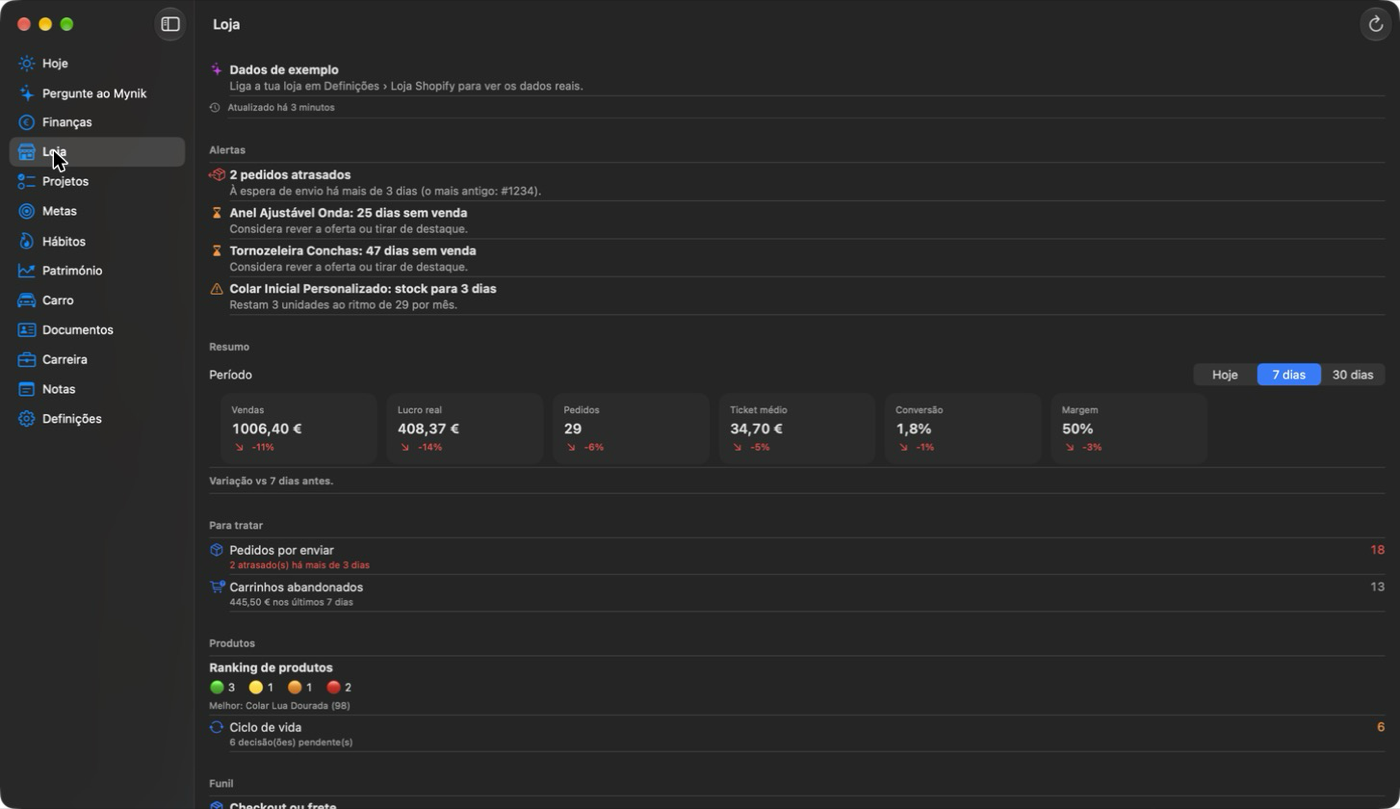
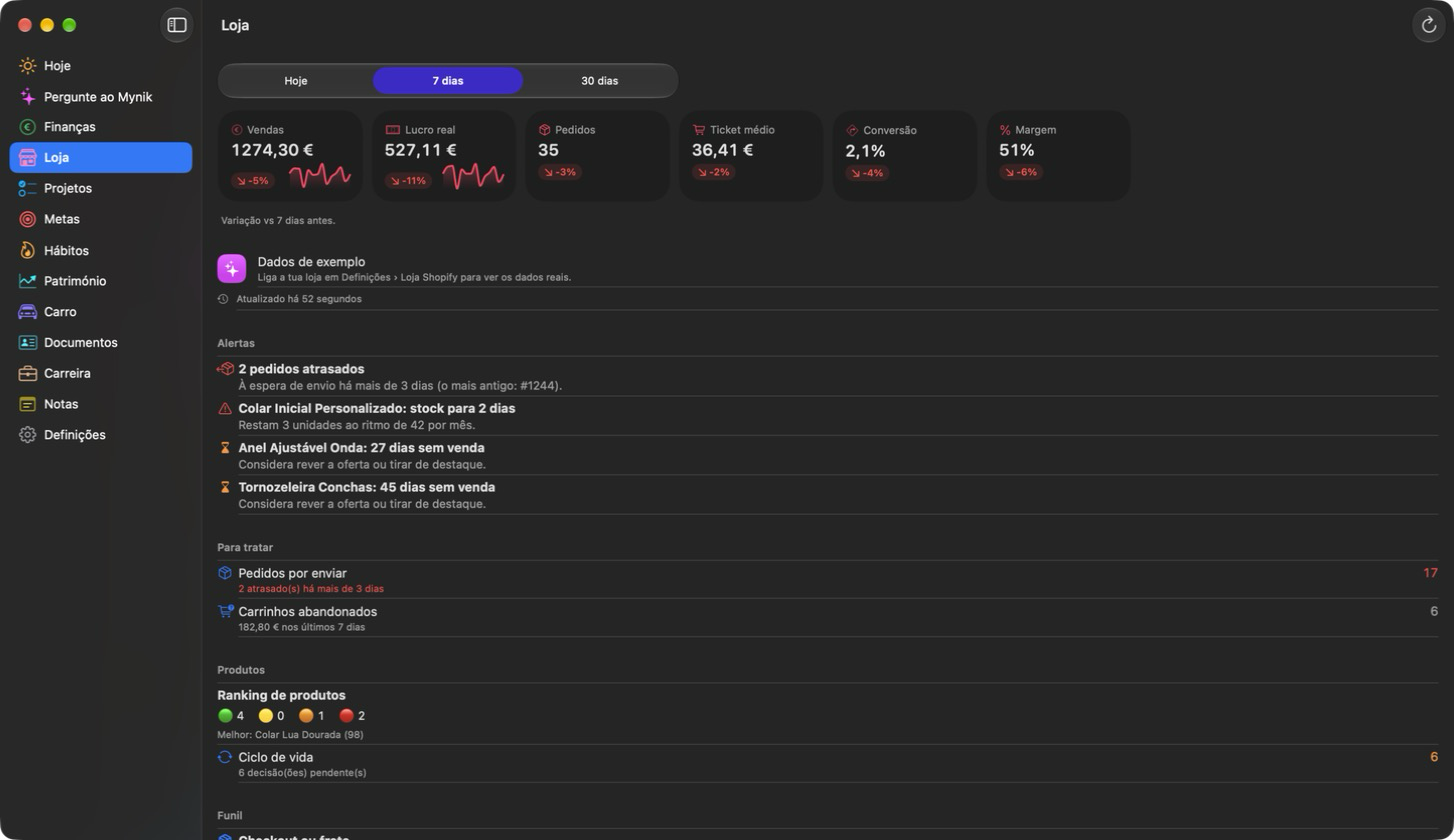
docs: screenshots e README do redesign visual (v1.1)

diff --git a/README.md b/README.md
@@ -1,16 +1,18 @@
+<p align="center"><img src="docs/screenshots/app-icon.png" width="128" alt="Ícone do Mynik"></p>
+
 # Mynik
 
 > *A tua vida, num só lugar.*
 
 **Dashboard pessoal nativa para iPhone e Mac**: finanças, contas a pagar, analytics da loja Shopify, projetos, notas, hábitos, carro, documentos, carreira e património numa só app SwiftUI, com IA no dispositivo e sem servidores.
 
-![Swift](https://img.shields.io/badge/Swift-6-F05138) ![SwiftUI](https://img.shields.io/badge/SwiftUI-iOS%2026%20%7C%20macOS%2026-blue) ![SwiftData](https://img.shields.io/badge/SwiftData-local-green) ![Foundation Models](https://img.shields.io/badge/IA-on--device-purple) ![Tests](https://img.shields.io/badge/testes-223-brightgreen)
+![Swift](https://img.shields.io/badge/Swift-6-F05138) ![SwiftUI](https://img.shields.io/badge/SwiftUI-iOS%2026%20%7C%20macOS%2026-blue) ![SwiftData](https://img.shields.io/badge/SwiftData-local-green) ![Foundation Models](https://img.shields.io/badge/IA-on--device-purple) ![Tests](https://img.shields.io/badge/testes-225-brightgreen)
 
 <p align="center">
   <img src="docs/screenshots/iphone-hoje.png" width="200" alt="Tela Hoje no iPhone">
-  <img src="docs/screenshots/iphone-pergunte-ia.png" width="200" alt="Pergunte ao Mynik com Apple Intelligence">
-  <img src="docs/screenshots/iphone-loja.png" width="200" alt="Loja Shopify com ranking e gráfico">
-  <img src="docs/screenshots/iphone-habitos.png" width="200" alt="Hábitos com sequência">
+  <img src="docs/screenshots/iphone-financas.png" width="200" alt="Finanças com saldo do mês e atalhos">
+  <img src="docs/screenshots/iphone-loja.png" width="200" alt="Loja Shopify com KPIs e tendências">
+  <img src="docs/screenshots/iphone-patrimonio-escuro.png" width="200" alt="Património em modo escuro">
 </p>
 
 <p align="center">
@@ -25,7 +27,8 @@
 - 🛍 **Shopify Analytics**: lucro real (sem IVA, custos, envios, taxas e anúncios), ranking de produtos 0–100 com ação sugerida e diagnóstico do funil.
 - 🔥 **Hábitos, revisão semanal ao domingo**, projetos em Kanban, notas estilo Notion com Markdown, carro, documentos com Face ID, carreira e património.
 - 🧩 Widgets, Siri/Atalhos, barra de menus no Mac, Calendário e Lembretes na tela Hoje.
-- ♿ Liquid Glass, modo escuro, Dynamic Type, VoiceOver e Reduzir movimento.
+- 🎨 **Sistema visual próprio** (`Core/DesignSystem`): cor da marca, uma cor por módulo, números arredondados, cartões de KPI com mini gráficos e um ícone gerado com CoreGraphics ([scripts/make-icon.swift](scripts/make-icon.swift)).
+- ♿ Liquid Glass nos controlos, modo escuro, Dynamic Type, VoiceOver, contraste AA e Reduzir movimento.
 
 <details>
 <summary><b>Mais screenshots</b></summary>
@@ -36,6 +39,10 @@
 | Fatura digitalizada → gasto | Conta de hoje na Dynamic Island | Modo escuro |
 | <img src="docs/screenshots/iphone-financas.png" width="220" alt="Finanças"> | <img src="docs/screenshots/iphone-pergunte-sem-ia.png" width="220" alt="Pergunte ao Mynik sem IA"> | <img src="docs/screenshots/mac-pergunte.png" width="220" alt="Pergunte ao Mynik no Mac"> |
 | Finanças | Modo sem IA (resumos) | Chat no Mac |
+| <img src="docs/screenshots/iphone-carro.png" width="220" alt="Carro com KPIs e consumo"> | <img src="docs/screenshots/iphone-pergunte-ia.png" width="220" alt="Pergunte ao Mynik com Apple Intelligence"> | <img src="docs/screenshots/iphone-habitos.png" width="220" alt="Hábitos com sequência"> |
+| Carro | Pergunte ao Mynik | Hábitos |
+
+<img src="docs/screenshots/mac-financas.png" width="820" alt="Finanças no Mac">
 
 <img src="docs/screenshots/mac-loja.png" width="820" alt="Loja no Mac">
 </details>
@@ -67,7 +74,7 @@ MynikTests/       Swift Testing, com a app como anfitrião e base de dados em me
 - **APIs grátis e sem chaves**: câmbio do BCE ([Frankfurter](https://frankfurter.dev)), preços de combustível do Ministerio para la Transición Ecológica, cotações do Yahoo Finance. A Shopify usa só *scopes* de leitura e o token fica no **Keychain**, nunca no código.
 - **Privacidade**: Face ID opcional para abrir a app, números e fotos dos documentos atrás de autenticação própria (e fora da busca global), nenhum dado sai do dispositivo.
 
-## Estado — v1.0
+## Estado — v1.1
 ✅ **Fase 1 (MVP) concluída**: projeto multiplataforma, modelos SwiftData, navegação adaptativa (barra lateral no Mac/iPad, separadores no iPhone), Finanças (lista, adicionar e editar gastos/receitas) e tela Hoje (saldo do mês, últimos gastos, contas a vencer).
 
 ✅ **Fase 2 (Finanças completas) concluída**: contas a pagar com recorrência e botão "paguei", notificações de vencimento, orçamento mensal por categoria, relatórios com Swift Charts, assinaturas (total mensal/anual), importação de extratos CSV (com deteção de duplicados; exemplo em [docs/exemplo-extrato.csv](docs/exemplo-extrato.csv)) e multi-moeda EUR/BRL com taxa do BCE.
@@ -83,6 +90,8 @@ MynikTests/       Swift Testing, com a app como anfitrião e base de dados em me
 ✅ **Fase 7 (IA e extras) concluída**: **categorização automática** dos movimentos com a Apple Intelligence (Foundation Models no dispositivo, só entre as categorias existentes) e, sem ela, pelo histórico e por comerciantes conhecidos; **"Pergunte ao Mynik"**, um chat sobre finanças, contas, loja, carro, documentos, carreira, metas e património com *tool calling* que lê o SwiftData (e modo sem IA com resumos por tema); **scanner de faturas** (câmara de documentos do VisionKit ou foto/ficheiro, OCR do Vision que extrai comerciante, total e data); **Live Activity e Dynamic Island** da conta que vence hoje (atualizações locais); **revisão semanal** ao domingo, **hábitos** com sequência e objetivo semanal e **busca global ⌘K**.
 
 ✅ **Fase 8 (Polimento e lançamento) concluída — v1.0**: Liquid Glass (botões de vidro, barra de separadores que encolhe), cor de destaque com variantes para modo escuro e alto contraste, Dynamic Type com layouts verticais nos tamanhos de acessibilidade, Reduzir movimento, rótulos únicos para VoiceOver e Controlo por Voz; **Face ID opcional** para abrir a app; cópia de segurança completa com os hábitos; **223 testes** com Swift Testing; screenshots reais e este README. O TestFlight ficou de fora por exigir o plano pago (ver [Instalar](#instalar)).
+
+✅ **v1.1 — Redesign visual**: design system em `Core/DesignSystem` (tokens de espaçamento e raio, cor da marca violeta com variantes, cor de destaque por módulo, tipografia dos números com `.rounded` e algarismos fixos, cartões, KPIs com variação e mini gráficos em Swift Charts, estados vazios); tela **Hoje** em painel de cartões com o saldo sobre o gradiente da marca, ações rápidas em Liquid Glass e duas colunas no Mac; **Finanças** e **Loja** com KPIs e gráficos mais limpos, seletor de período em vidro com `matchedGeometryEffect`; Carro, Carreira, Património, Projetos, Documentos e Definições com o mesmo sistema; haptics no iPhone; **ícone da app** gerado por código. Contraste verificado (≥ 4,5:1) e layouts próprios para os tamanhos de acessibilidade.
 
 Detalhe de cada fase em [ROADMAP](docs/ROADMAP.md) e [CHANGELOG](CHANGELOG.md).
 

diff --git a/CHANGELOG.md b/CHANGELOG.md
@@ -71,3 +71,4 @@
 - feat(design): ícone da app gerado com CoreGraphics (scripts/make-icon.swift)
 - fix(a11y): contraste dos cartões de destaque e ações rápidas em grelha com texto grande
 - fix(design): KPIs com a mesma altura na grelha e seletor de período com largura máxima no Mac
+- docs: screenshots e README do redesign visual (v1.1)
